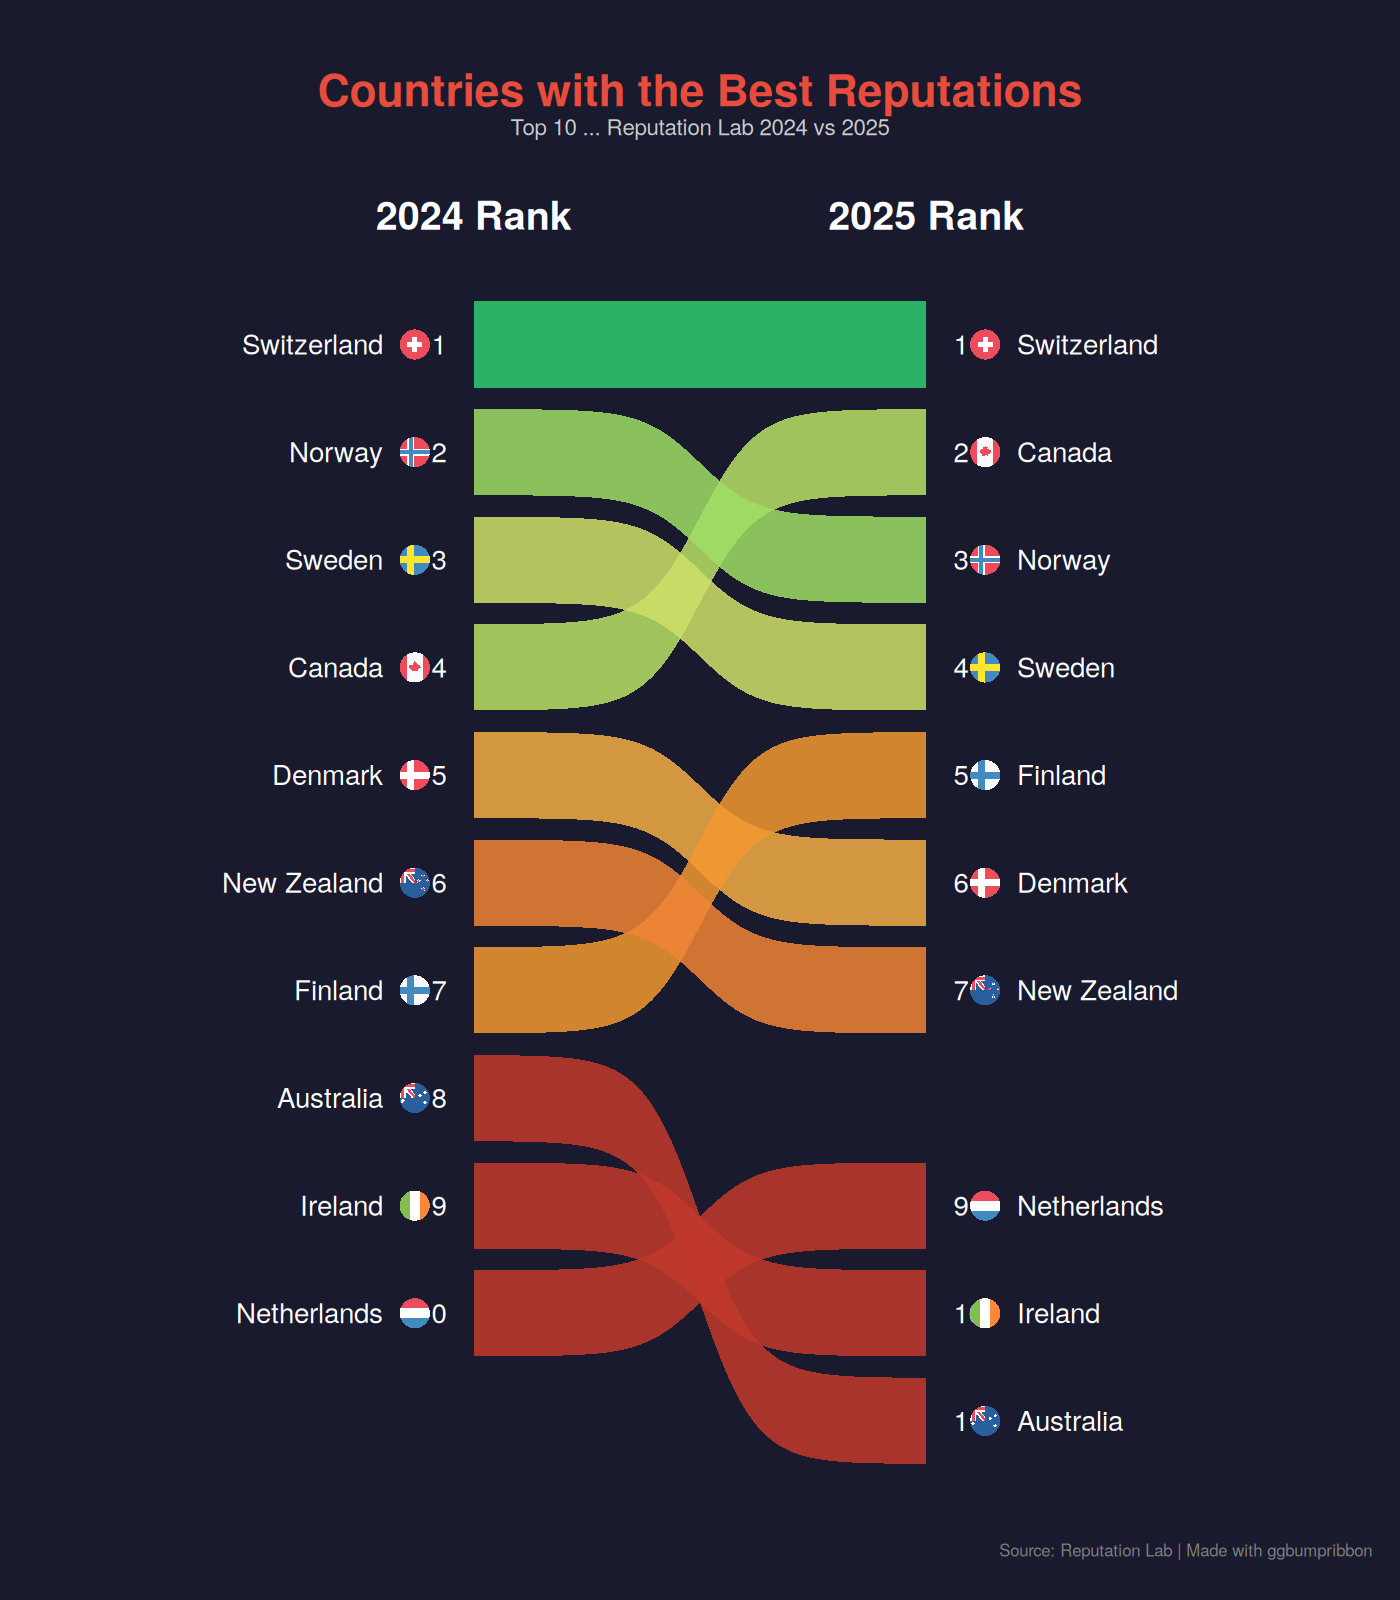
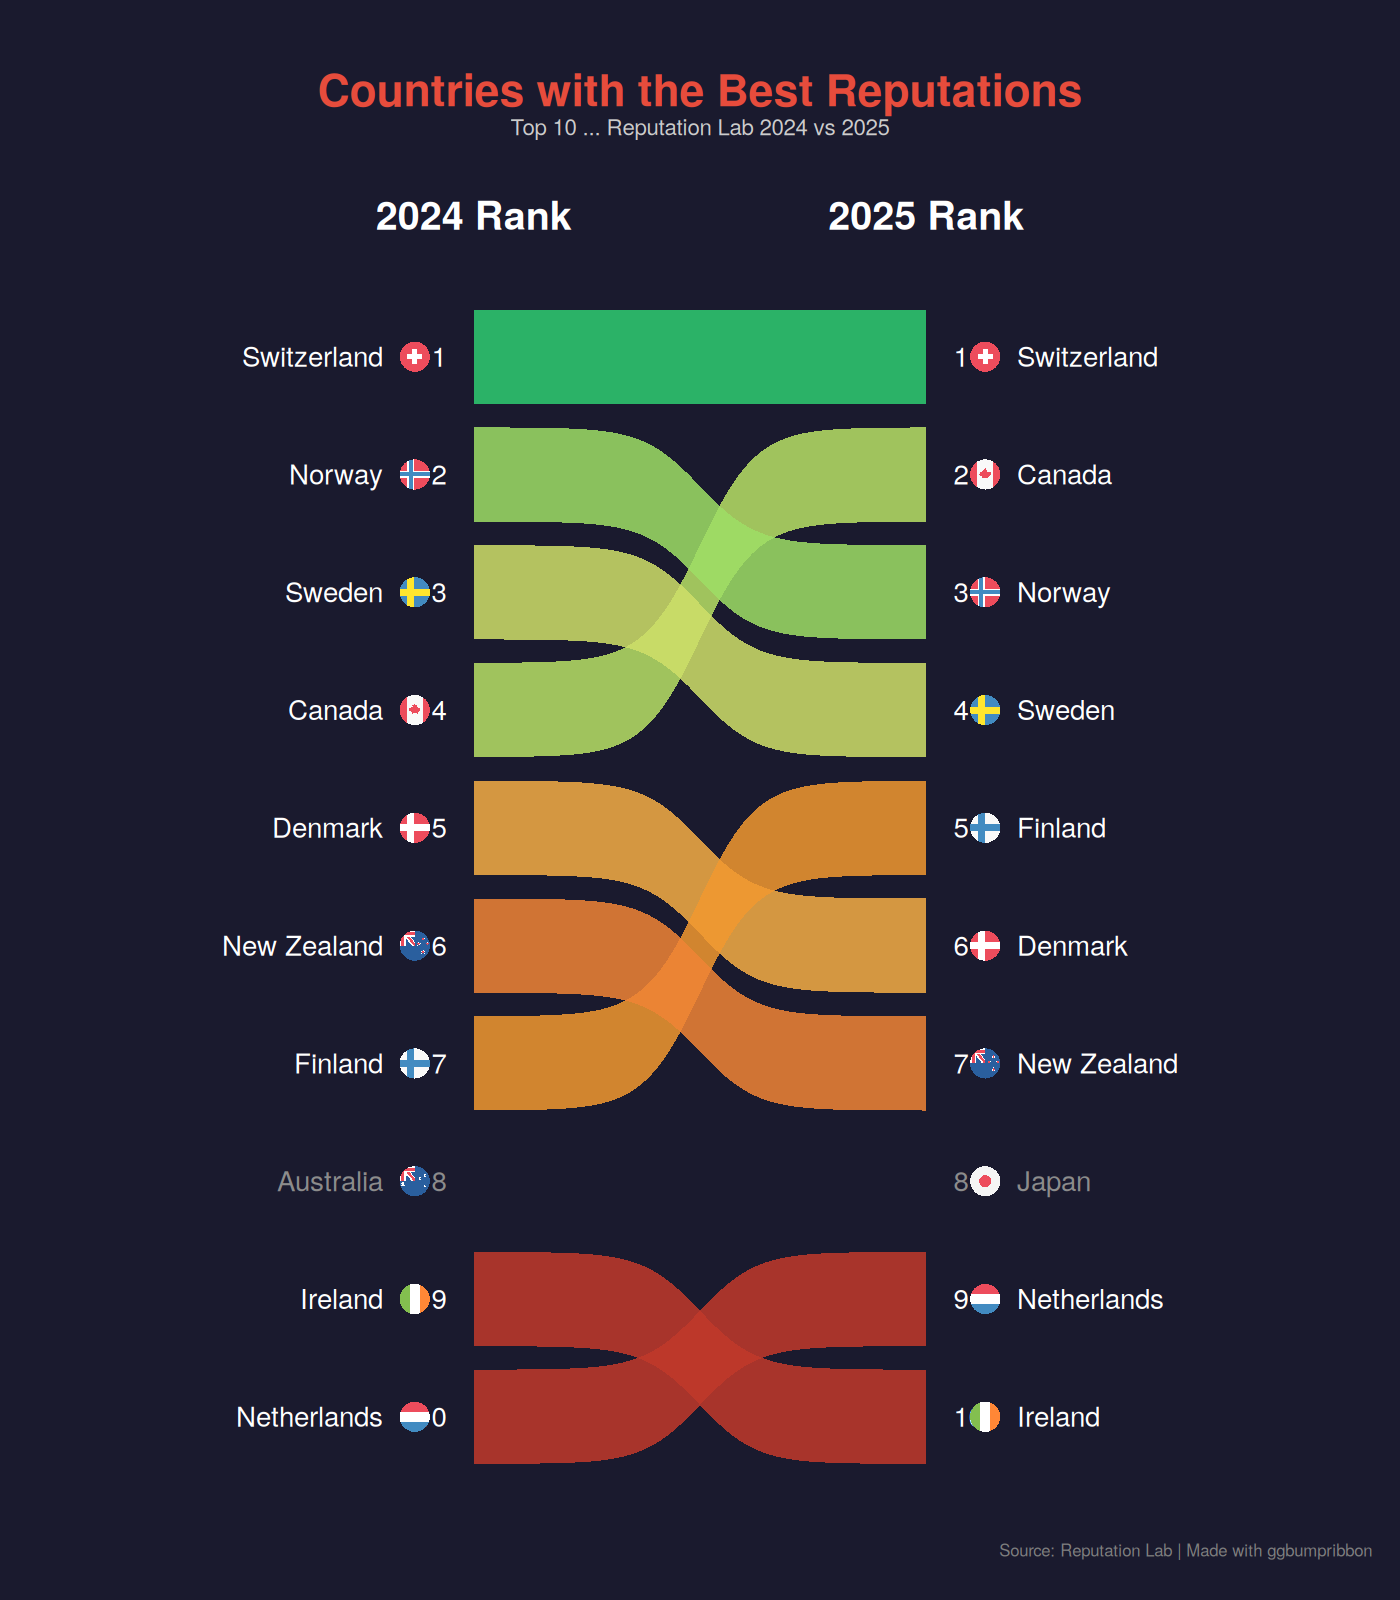
Fix top-10 chart: Australia exits, Japan enters at rank 8
- Only countries in both top-10 lists get ribbons (9 countries)
- Australia (8→11): grey label on left only, no ribbon
- Japan (12→8): grey label on right only, no ribbon
- Matches the original Visual Capitalist entry/exit pattern
- Updated README code block to match

diff --git a/README.md b/README.md
@@ -19,31 +19,38 @@ library(ggbumpribbon)
 library(ggflags)
 library(countrycode)
 
-ranks <- data.frame(
+# countries in both top-10 lists get ribbons
+both <- data.frame(
   country   = c("Switzerland","Norway","Sweden","Canada","Denmark",
-                "New Zealand","Finland","Australia","Ireland","Netherlands"),
-  rank_from = 1:10,
-  rank_to   = c(1, 3, 4, 2, 6, 7, 5, 11, 10, 9)
+                "New Zealand","Finland","Ireland","Netherlands"),
+  rank_from = c(1, 2, 3, 4, 5, 6, 7, 9, 10),
+  rank_to   = c(1, 3, 4, 2, 6, 7, 5, 10, 9)
 )
+
+# countries that exit/enter top-10 get grey labels only
+exit_only  <- data.frame(country = "Australia", rank_from = 8)
+enter_only <- data.frame(country = "Japan",     rank_to   = 8)
 
 ov <- c("U.S."="us","UK"="gb","South Korea"="kr","Czechia"="cz","Taiwan"="tw","UAE"="ae")
-ranks$iso2 <- ifelse(
-  ranks$country %in% names(ov), ov[ranks$country],
-  tolower(countrycode(ranks$country, "country.name", "iso2c", warn = FALSE))
+iso <- function(x) ifelse(x %in% names(ov), ov[x],
+  tolower(countrycode(x, "country.name", "iso2c", warn = FALSE)))
+
+both$iso2       <- iso(both$country)
+exit_only$iso2  <- iso(exit_only$country)
+enter_only$iso2 <- iso(enter_only$country)
+
+both_long <- data.frame(
+  x       = rep(1:2, each = nrow(both)),
+  y       = c(both$rank_from, both$rank_to),
+  group   = rep(both$country, 2),
+  country = rep(both$country, 2),
+  iso2    = rep(both$iso2, 2)
 )
 
-ranks_long <- data.frame(
-  x       = rep(1:2, each = 10),
-  y       = c(ranks$rank_from, ranks$rank_to),
-  group   = rep(ranks$country, 2),
-  country = rep(ranks$country, 2),
-  iso2    = rep(ranks$iso2, 2)
-)
+lbl_l <- both_long[both_long$x == 1, ]
+lbl_r <- both_long[both_long$x == 2, ]
 
-lbl_l <- ranks_long[ranks_long$x == 1, ]
-lbl_r <- ranks_long[ranks_long$x == 2, ]
-
-ggplot(ranks_long, aes(x, y, group = group, fill = after_stat(avg_y))) +
+ggplot(both_long, aes(x, y, group = group, fill = after_stat(avg_y))) +
   geom_bump_ribbon(alpha = 0.85) +
   scale_fill_gradientn(
     colours = c("#c0392b","#eb4d4b","#f0932b","#f7dc6f","#a8e063","#2ecc71"),
@@ -51,18 +58,34 @@ ggplot(ranks_long, aes(x, y, group = group, fill = after_stat(avg_y))) +
   ) +
   scale_y_reverse(expand = expansion(mult = c(0.04, 0.04))) +
   scale_x_continuous(limits = c(0.15, 2.85)) +
+  # left labels
   geom_text(data = lbl_l, aes(x = 0.94, y = y, label = y),
             inherit.aes = FALSE, hjust = 1, colour = "white", size = 3.5) +
   geom_flag(data = lbl_l, aes(x = 0.87, y = y, country = iso2),
             inherit.aes = FALSE, size = 4.5) +
   geom_text(data = lbl_l, aes(x = 0.80, y = y, label = country),
             inherit.aes = FALSE, hjust = 1, colour = "white", size = 3.5) +
+  # right labels
   geom_text(data = lbl_r, aes(x = 2.06, y = y, label = y),
             inherit.aes = FALSE, hjust = 0, colour = "white", size = 3.5) +
   geom_flag(data = lbl_r, aes(x = 2.13, y = y, country = iso2),
             inherit.aes = FALSE, size = 4.5) +
   geom_text(data = lbl_r, aes(x = 2.20, y = y, label = country),
             inherit.aes = FALSE, hjust = 0, colour = "white", size = 3.5) +
+  # exit: Australia (2024 only, grey)
+  geom_text(data = exit_only, aes(x = 0.94, y = rank_from, label = rank_from),
+            inherit.aes = FALSE, hjust = 1, colour = "grey55", size = 3.5) +
+  geom_flag(data = exit_only, aes(x = 0.87, y = rank_from, country = iso2),
+            inherit.aes = FALSE, size = 4.5) +
+  geom_text(data = exit_only, aes(x = 0.80, y = rank_from, label = country),
+            inherit.aes = FALSE, hjust = 1, colour = "grey55", size = 3.5) +
+  # enter: Japan (2025 only, grey)
+  geom_text(data = enter_only, aes(x = 2.06, y = rank_to, label = rank_to),
+            inherit.aes = FALSE, hjust = 0, colour = "grey55", size = 3.5) +
+  geom_flag(data = enter_only, aes(x = 2.13, y = rank_to, country = iso2),
+            inherit.aes = FALSE, size = 4.5) +
+  geom_text(data = enter_only, aes(x = 2.20, y = rank_to, label = country),
+            inherit.aes = FALSE, hjust = 0, colour = "grey55", size = 3.5) +
   annotate("text", x = 1, y = -0.2, label = "2024 Rank",
            colour = "white", size = 5, fontface = "bold") +
   annotate("text", x = 2, y = -0.2, label = "2025 Rank",
@@ -178,7 +201,7 @@ ggplot(mt_long, aes(x, y, group = group, fill = after_stat(avg_y))) +
 
 ## Note on `scale_y_reverse()`
 
-`scale_y_reverse()` negates y values before the Stat computes `avg_y`. This means low ranks (good) get negative `avg_y`. When using `scale_fill_gradientn()`, reverse your colour vector so green maps to the most-negative (best) values:
+`scale_y_reverse()` negates y values before the Stat computes `avg_y`. When using `scale_fill_gradientn()`, reverse your colour vector so green maps to the most-negative (best) values:
 
 ```r
 scale_fill_gradientn(
